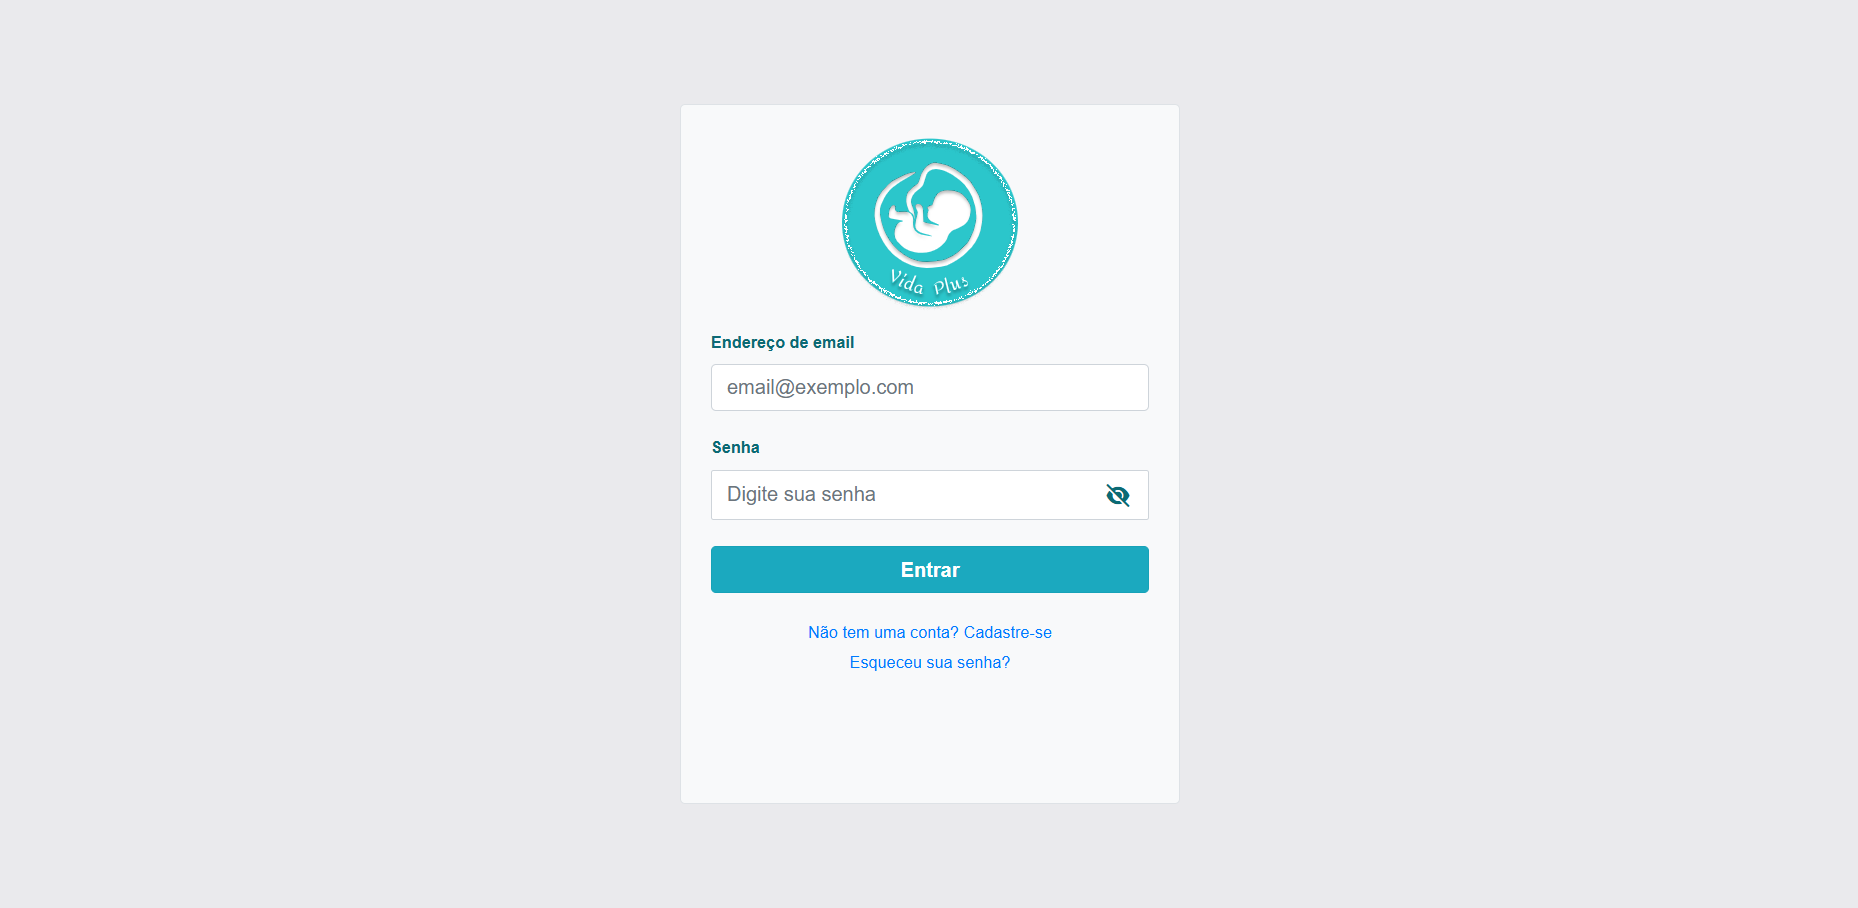
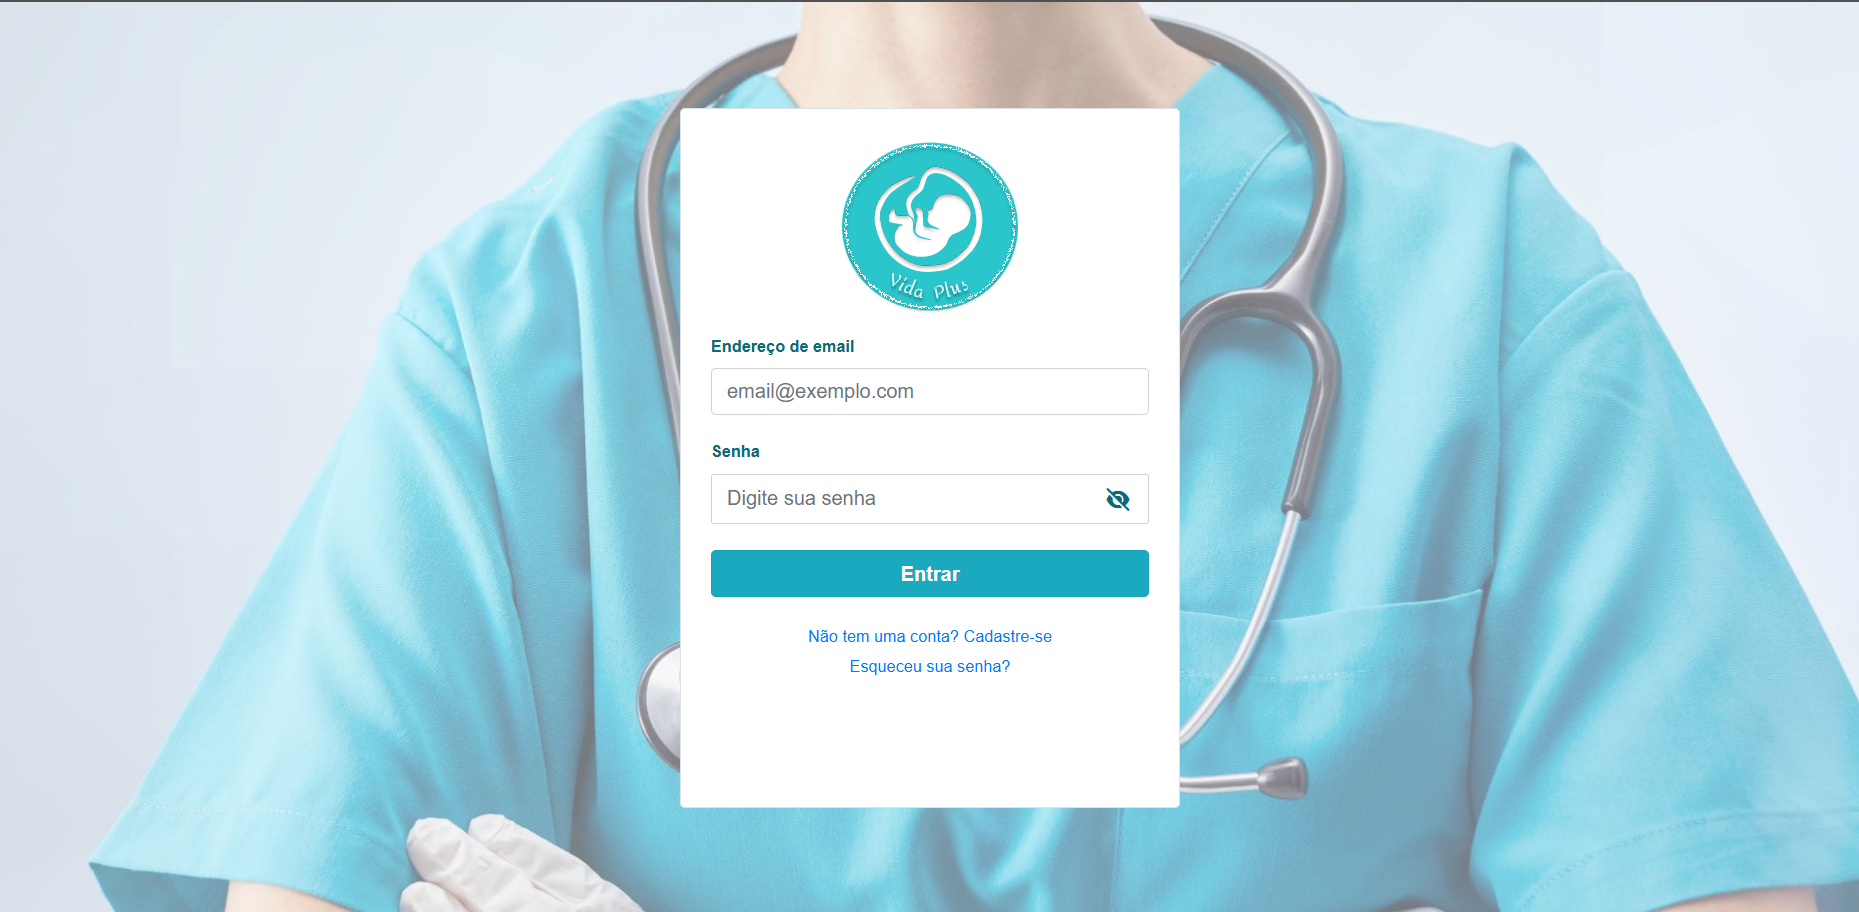
Refat.

diff --git a/src/app/features/logar/components/login/login.component.html b/src/app/features/logar/components/login/login.component.html
@@ -1,36 +1,56 @@
-<div class="card-login">    
-    <form container="flex" [formGroup]="loginForm" (ngSubmit)="onSubmit()" class="p-4 border rounded bg-light">
-        <img src="assets/img/Logo_vidaPlus.svg" alt="Logo Vida Plus" class="d-block mx-auto">
-        <div class="form-group">
-            <label for="exampleDropdownFormEmail2">Endereço de email</label>
-            <input formControlName="username" type="email" class="form-control" id="exampleDropdownFormEmail2" placeholder="email@exemplo.com">
-                <div class="alerta" *ngIf="username?.touched && username?.invalid">
-                    Digite seu e-mail.
-                </div>
+<div class="login-container">
+  <div class="login-bg"></div>
+
+  <div class="login-card">
+    <form
+      container="flex"
+      [formGroup]="loginForm"
+      (ngSubmit)="onSubmit()"
+      class="p-4 border rounded bg-white"
+    >
+      <img
+        src="assets/img/Logo_vidaPlus.svg"
+        alt="Logo Vida Plus"
+        class="d-block mx-auto"
+      />
+      <div class="form-group">
+        <label for="exampleDropdownFormEmail2">Endereço de email</label>
+        <input
+          formControlName="username"
+          type="email"
+          class="form-control"
+          id="exampleDropdownFormEmail2"
+          placeholder="email@exemplo.com"
+        />
+        <div class="alerta" *ngIf="username?.touched && username?.invalid">
+          Digite seu e-mail.
+        </div>
+      </div>
+
+      <div class="form-group">
+        <div class="input-wrapper">
+          <label for="exemploSenha">Senha</label>
+          <input
+            id="exemploSenha"
+            [type]="mostrarSenha ? 'text' : 'password'"
+            class="form-control"
+            formControlName="password"
+            placeholder="Digite sua senha"
+          />
+          <i
+            class="fa-solid"
+            [ngClass]="mostrarSenha ? 'fa-eye' : 'fa-eye-slash'"
+            (click)="alternarSenha()"
+          >
+          </i>
         </div>
 
-        <div class="form-group">
-
-            <div class="input-wrapper">
-                <label for="exemploSenha">Senha</label>
-                <input id="exemploSenha"
-                    [type]="mostrarSenha ? 'text' : 'password'"
-                    class="form-control"
-                    formControlName="password"
-                    placeholder="Digite sua senha"
-                />
-                <i class="fa-solid"
-                    [ngClass]="mostrarSenha ? 'fa-eye' : 'fa-eye-slash'"
-                    (click)="alternarSenha()">
-                </i>
-            </div>
-
-            <div class="alerta" *ngIf="password?.touched && password?.invalid">
-                Digite sua senha.
-            </div>
+        <div class="alerta" *ngIf="password?.touched && password?.invalid">
+          Digite sua senha.
         </div>
+      </div>
 
-        <!--
+      <!--
         <div class="form-check">
             <input type="checkbox" class="form-check-input" id="dropdownCheck2">
             <label class="form-check-label" for="dropdownCheck2">
@@ -39,12 +59,15 @@
         </div>
         -->
 
-        <button type="submit" class="btn btn-info">Entrar</button>
-        <div class="card-body text-center p-2">
-            <a class="Cadastrar" routerLink="/cadastro-paciente">Não tem uma conta? Cadastre-se</a>
-            <br>
-            <a routerLink="">Esqueceu sua senha?</a>
-        </div>
+      <button type="submit" class="btn btn-info">Entrar</button>
+      <div class="card-body text-center p-2">
+        <a class="Cadastrar" routerLink="/cadastro-paciente"
+          >Não tem uma conta? Cadastre-se</a
+        >
+        <br />
+        <a routerLink="">Esqueceu sua senha?</a>
+      </div>
     </form>
+  </div>
 </div>
 <app-alert-modal></app-alert-modal>

diff --git a/src/app/features/resetar-senha/components/reset-senha/reset-senha.component.ts b/src/app/features/resetar-senha/components/reset-senha/reset-senha.component.ts
@@ -1,0 +1,103 @@
+import { CommonModule } from '@angular/common';
+import { Component, inject, OnDestroy, OnInit } from '@angular/core';
+import { AbstractControl, FormBuilder, FormGroup, ReactiveFormsModule, Validators } from '@angular/forms';
+import { Router, RouterModule } from '@angular/router';
+import { AuthService } from '../../../../core/auth.service';
+import { HttpErrorResponse } from '@angular/common/http';
+import { AlertModalComponent } from '../../../../shared/alert-modal/alert-modal.component';
+import { ModalService } from '../../../../shared/modal.service';
+import { Subject, takeUntil } from 'rxjs';
+import { ResetSenhaRequest, ResetSenhaResponse } from '../../models/reset-senha.model';
+
+@Component({
+  selector: 'app-reset-senha',
+  standalone: true,
+  imports: [RouterModule, CommonModule, ReactiveFormsModule, AlertModalComponent],
+  templateUrl: './reset-senha.component.html',
+  styleUrl: './reset-senha.component.css'
+})
+
+export class ResetSenhaComponent implements OnInit, OnDestroy {
+  
+  resetForm!: FormGroup;
+  mostrarSenhaAtual = false;
+  mostrarNovaSenha = false;
+
+  private readonly destroy$ = new Subject<void>();
+  
+  constructor(
+      private readonly fb: FormBuilder,
+      private readonly authService: AuthService,
+      private readonly modalService: ModalService,
+      private readonly router: Router
+    ) {}
+
+  ngOnInit(): void {
+    this.criarFormulario();
+  }
+
+  ngOnDestroy(): void {
+    this.destroy$.next();
+    this.destroy$.complete();
+  }
+
+  private criarFormulario(): void {
+    this.resetForm = this.fb.group({
+      senhaAtual: ['', Validators.required],
+      novaSenha: ['', [Validators.required, Validators.minLength(6)]],
+    });
+  }
+  
+  alternarSenhaAtual(): void {
+    this.mostrarSenhaAtual = !this.mostrarSenhaAtual;
+  }
+
+  alternarNovaSenha(): void {
+    this.mostrarNovaSenha = !this.mostrarNovaSenha;
+  }
+
+  onSubmit() {
+    if (this.resetForm.invalid) {
+      this.resetForm.markAllAsTouched();
+      return;
+    }
+
+    const payload: ResetSenhaRequest = this.resetForm.value;
+
+    this.authService
+    .resetSenha(payload)
+    .pipe(takeUntil(this.destroy$))
+    .subscribe({
+      next: (res: ResetSenhaResponse) => {
+
+        setTimeout(() => {
+          this.modalService.abrirModalSucesso(
+            res?.mensagem || 'Senha alterada com sucesso! Você será redirecionado para o login.'
+          );
+        }, 1000);
+        this.resetForm.reset();
+
+        setTimeout(() => {
+          //desconecta o usuário e redireciona para o login
+        this.authService.logout(); // Limpa localStorage e memória
+        this.router.navigate(['/login']);
+        }, 5000);
+        
+      },
+      error: (err: HttpErrorResponse) => {
+        this.modalService.abrirModalErro(
+            err?.error?.erro || 'Erro ao alterar senha. Tente novamente.'
+        );  
+      }
+    });
+  }
+
+  get senhaAtual(): AbstractControl | null { 
+    return this.resetForm.get('senhaAtual');
+  }
+
+  get novaSenha(): AbstractControl | null { 
+    return this.resetForm.get('novaSenha'); 
+  }
+
+}

diff --git a/src/app/core/auth.interceptor.ts b/src/app/core/auth.interceptor.ts
@@ -4,10 +4,12 @@ import { environment } from '../../environments/environment';
 import { catchError, throwError } from 'rxjs';
 import { Router } from '@angular/router';
 import { inject } from '@angular/core';
+import { AuthService } from './auth.service';
 
 export const authInterceptor: HttpInterceptorFn = (req, next) => {
-
+//console.log('Interceptor interceptando URL:', req.url);
   const router = inject(Router);
+  const authService = inject(AuthService);
 
 //Ignora requisições que pedem explicitamente para não usar auth
   // if (req.headers.has('skip-auth')) {
@@ -35,14 +37,15 @@ const token = localStorage.getItem('token_jwt');
   // Processa a requisição e captura erros de resposta globalmente
   return next(authReq).pipe(
     catchError((error: HttpErrorResponse) => {
-      if (error.status === 401 || error.status === 403) {
+      if (error.status === 401) {
         console.warn('Erro de autorização detectado:', error.status);
         alert('⚠ Sua sessão expirou. Por favor, faça login novamente.');
         // Token inválido ou expirado: limpa e redireciona
-        localStorage.removeItem('token_jwt');
-        localStorage.removeItem('usuario_logado');
+        setTimeout(() => {
+            authService.logout(); // Limpa localStorage e memória
+            router.navigate(['/login']);
+          }, 2000);
         
-        router.navigate(['/login']);
       }
       return throwError(() => error);
     })

diff --git a/src/app/features/logar/components/login/login.component.css b/src/app/features/logar/components/login/login.component.css
@@ -1,9 +1,23 @@
-.card-login {
+ .login-container{
+  min-height: 100vh;
+  position: relative;
+  
+ }
+
+.login-bg{
+  position: absolute;
+  inset: 0;
+  background-image: url(/assets/img/bg_img_medico.jpg);
+  background-size: cover;
+  background-position: center;
+  z-index: -1;
+}
+
+.login-card{
+  min-height: 100vh;
   display: flex;
-  justify-content: center; /* centraliza horizontalmente */
-  align-items: center;     /* centraliza verticalmente */
-  height: 100vh;           /* necessário para ocupar a altura total da tela */
-  background-color:var(--cor-cinza-claro-fundo);
+  align-items: center;
+  justify-content: center;
 }
 
 img{
@@ -81,30 +95,20 @@ form button:hover {
   cursor: pointer;
 }
 
-.modal-overlay {
-  position: fixed;
-  top: 0;
-  left: 0;
-  width: 100vw;
-  height: 100vh;
-  background: rgba(0,0,0,0.4);
-  display: flex;
-  align-items: center;
-  justify-content: center;
-  z-index: 9999;
+@media (max-width: 768px) {
+  .login-container {
+    display: flex;
+    flex-direction: column;
+  }
+
+  .login-bg {
+    position: static;
+    height: 35vh;
+  }
+
+  .login-card {
+    min-height: auto;
+    padding: 1rem;
+  }
 }
-
-.modal-content {
-  padding: 2rem;
-  border-radius: 8px;
-  text-align: center;
-  box-shadow: 0 0 10px rgba(0,0,0,0.3);
-  max-width: 300px;
-}
-
-h5{
-  font-weight: bold;
-}
-
-
 

diff --git a/src/app/core/auth.service.ts b/src/app/core/auth.service.ts
@@ -5,6 +5,7 @@ import { HttpClient} from '@angular/common/http';
 import { catchError, map, Observable, of, tap } from 'rxjs';
 import { UsuarioLogado } from '../features/logar/models/usuario-logado.model';
 import { environment } from '../../environments/environment';
+import { ResetSenhaRequest, ResetSenhaResponse} from '../features/resetar-senha/models/reset-senha.model';
 
 
 @Injectable({ providedIn: 'root' })
@@ -16,7 +17,7 @@ export class AuthService {
   private tokenKey = 'token_jwt'; // chave usada no localStorage
   private usuarioKey = 'usuario_logado';
 
-  constructor(private http: HttpClient) { 
+  constructor(private readonly http: HttpClient) { 
     // Tenta restaurar usuário do localStorage ao iniciar
     const salvo = localStorage.getItem(this.usuarioKey);
     if (salvo) {
@@ -89,8 +90,11 @@ export class AuthService {
     }
   }
 
-    resetSenha(dados: { senhaAtual: string; novaSenha: string }): Observable<unknown> {
-    return this.http.patch(`${this.apiUrl}usuarios/reset-senha`, dados);
+    resetSenha(payload: ResetSenhaRequest): Observable<ResetSenhaResponse> {
+      return this.http.patch<ResetSenhaResponse>(
+      `${this.apiUrl}usuarios/reset-senha`,
+      payload
+    );
   }
 
 }

diff --git a/src/app/features/logar/components/login/login.component.ts b/src/app/features/logar/components/login/login.component.ts
@@ -61,10 +61,15 @@ export class LoginComponent {
             this.router.navigate([redirect]);
           },
           error: (err: HttpErrorResponse) => {
-            //console.error('Erro no login', err); debug
             this.modalService.abrirModalErro (
               err.error?.message || 'Usuário ou senha inválidos.'
             );
+             // limpa os campos
+              this.loginForm.reset();
+
+              // remove estados de erro/dirty
+              this.loginForm.markAsPristine();
+              this.loginForm.markAsUntouched();
           }
         });
   }

diff --git a/src/app/app.routes.ts b/src/app/app.routes.ts
@@ -13,7 +13,7 @@ export const routes: Routes = [
   },
   {
     path: 'reset-senha',
-    loadComponent: () => import('./features/reset-senha/reset-senha.component').then(m => m.ResetSenhaComponent)
+    loadComponent: () => import('./features/resetar-senha/components/reset-senha/reset-senha.component').then(m => m.ResetSenhaComponent)
   },
 
   // dashboard (card) — só acessível se autenticado

diff --git a/src/app/features/resetar-senha/components/reset-senha/reset-senha.component.html b/src/app/features/resetar-senha/components/reset-senha/reset-senha.component.html
@@ -47,7 +47,6 @@
     </button>
 
     <div class="card-body text-center p-2">
-      <a routerLink="/login">Voltar ao login</a>
       <a routerLink="/home">Voltar para a página inicial</a>
     </div>
   </form>

diff --git a/src/app/features/resetar-senha/models/reset-senha.model.ts b/src/app/features/resetar-senha/models/reset-senha.model.ts
@@ -1,0 +1,8 @@
+export interface ResetSenhaRequest {
+  senhaAtual: string;
+  novaSenha: string;
+}
+
+export interface ResetSenhaResponse {
+  mensagem: string;
+}
